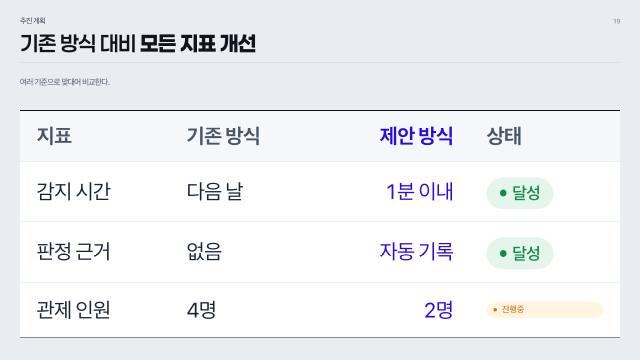
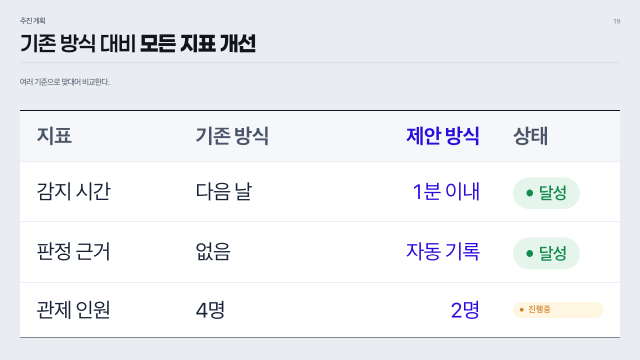
표 크기를 내용에 맞춤: 열 너비 자동, 표 글자 추가 축소, 넘치면 여러 장으로 나눔
- 열 너비: widths 없으면 칸 글자 양에 맞춰 나눔(HTML·PPTX 같은 값), 머리글 줄바꿈
- 세로: 본문 배율 최소로도 넘치면 표 글자만 0.75배(약 10pt)까지 더 줄임
- 그래도 안 들어가는 표는 행을 고르게 나눠 여러 장으로(머리글 반복, 제목 뒤 "(계속)")

diff --git a/docs/templates/deck.html b/docs/templates/deck.html
@@ -88,10 +88,10 @@ ul.rl.row li .v{display:inline;margin-left:.5em;}
 /* kv table (minimal): label column grey, values, bold last row; emphasize col tinted */
 /* 표 — SAFE AI 디자인 시스템 Data Table: 위·아래 2px 검정 선으로 시작·끝, 안쪽은 1px 연회색 선(세로선 없음).
    머리글(타이틀 영역)은 연회색 바탕·회색 글자. rowHeader 면 첫 열도 타이틀 영역(연회색 바탕·회색 글자 + 오른쪽 1px 선). 강조 열은 글자색만 포인트 컬러 */
-table.rt{width:100%;border-collapse:collapse;font-size:var(--fs-table);background:#fff;table-layout:fixed;text-align:left;border-top:2px solid var(--title);border-bottom:2px solid var(--title);}
-.rt thead th{background:var(--bg-soft);color:var(--text-mid);font-weight:700;text-align:left;padding:.55em .8em;border:0;border-bottom:1px solid var(--border);font-size:var(--fs-tableh);line-height:1.3;white-space:nowrap;vertical-align:middle;}
+table.rt{width:100%;border-collapse:collapse;font-size:calc(var(--fs-table) * var(--kt, 1));background:#fff;table-layout:fixed;text-align:left;border-top:2px solid var(--title);border-bottom:2px solid var(--title);}
+.rt thead th{background:var(--bg-soft);color:var(--text-mid);font-weight:700;text-align:left;padding:.55em .8em;border:0;border-bottom:1px solid var(--border);font-size:calc(var(--fs-tableh) * var(--kt, 1));line-height:1.3;word-break:keep-all;overflow-wrap:anywhere;vertical-align:middle;}   /* 머리글도 칸이 좁으면 줄바꿈 */
 .rt thead th.em{color:var(--primary);}
-.rt tbody td{padding:.6em .8em;border:0;border-bottom:1px solid var(--border);vertical-align:middle;color:var(--text);background:transparent;text-align:left;line-height:1.45;}
+.rt tbody td{padding:.6em .8em;border:0;word-break:keep-all;overflow-wrap:anywhere;border-bottom:1px solid var(--border);vertical-align:middle;color:var(--text);background:transparent;text-align:left;line-height:1.45;}
 .rt tbody td{font-weight:400;}   /* 본문 = regular·검정, 타이틀 영역 = bold·연회색 */
 .rt.rh thead th:first-child{border-right:1px solid var(--border);}
 .rt.rh tbody td:first-child{background:var(--bg-soft);color:var(--text-mid);font-weight:700;border-right:1px solid var(--border);}
@@ -341,7 +341,7 @@ table.rt{width:100%;border-collapse:collapse;font-size:var(--fs-table);backgroun
 <section class="slide" data-label="2-5 기술 난제와 **대응 방안**" id="s13" data-fit="1" style="--k: 1.0689453125;" style="--k:1.06">
     <div class="top"><div class="eyebrow"><span>해결 방안</span><span class="pgno">13</span></div><div class="stitle">기술 난제와 <b>대응&nbsp;방안</b></div><div class="rule"></div><div class="slead">난제와 해법을 맞대고 근거를 표로 받친다.</div></div>
     <div class="body" style="--body-top:220px;--safe-bottom:44px"><div class="blk" style="flex:1 1 0"><div class="inner"><div class="cmp"><div class="side from"><div class="cap">난제</div><div class="bd"><div class="sh">짧은 이상&nbsp;구간</div><div class="fill"><ul class="rl" style="--rl-gap: 0.40em;" data-gap-id="g16"><li>문 열림 1~2분</li><li>평균값에&nbsp;묻힘</li></ul></div></div></div><div class="arr">›</div><div class="side to"><div class="cap">해법</div><div class="bd"><div class="sh">구간 단위&nbsp;판정</div><div class="fill"><ul class="rl" style="--rl-gap: 0.40em;" data-gap-id="g17"><li>1분 단위 구간&nbsp;분리</li><li>구간별 누적&nbsp;점수</li></ul></div></div></div></div></div></div><div class="blk" style="flex:1 1 0"><div class="inner"><div class="tbl" style="flex:1;min-height:0;overflow:hidden"><table class="rt">
-      
+      <colgroup><col style="width:33.3%"><col style="width:33.3%"><col style="width:33.3%"></colgroup>
       <thead><tr><th class="">지표</th><th class="n">기존</th><th class="em n">제안</th></tr></thead>
       <tbody><tr><td class="">감지율</td><td class="n">62%</td><td class="em n">94%</td></tr><tr><td class="">오탐률</td><td class="n">18%</td><td class="em n">5%</td></tr></tbody>
     </table></div></div></div></div>
@@ -409,7 +409,7 @@ table.rt{width:100%;border-collapse:collapse;font-size:var(--fs-table);backgroun
 <section class="slide" data-label="3-2 기존 방식 대비 **모든 지표 개선**" id="s19" data-fit="1" style="--k: 1.7337890625;" style="--k:1.73">
     <div class="top"><div class="eyebrow"><span>추진 계획</span><span class="pgno">19</span></div><div class="stitle">기존 방식 대비 <b>모든 지표&nbsp;개선</b></div><div class="rule"></div><div class="slead">여러 기준으로 맞대어 비교한다.</div></div>
     <div class="body" style="--body-top:220px;--safe-bottom:44px"><div class="blk" style="flex:1 1 0"><div class="inner"><div class="tbl" style="flex:1;min-height:0;overflow:hidden"><table class="rt">
-      
+      <colgroup><col style="width:26.5%"><col style="width:26.5%"><col style="width:26.5%"><col style="width:20.6%"></colgroup>
       <thead><tr><th class="">지표</th><th class="">기존&nbsp;방식</th><th class="em n">제안&nbsp;방식</th><th class="">상태</th></tr></thead>
       <tbody><tr><td class="">감지&nbsp;시간</td><td class="">다음&nbsp;날</td><td class="em n">1분&nbsp;이내</td><td class=""><span class="badge ok">달성</span></td></tr><tr><td class="">판정&nbsp;근거</td><td class="">없음</td><td class="em n">자동&nbsp;기록</td><td class=""><span class="badge ok">달성</span></td></tr><tr><td class="">관제&nbsp;인원</td><td class="">4명</td><td class="em n">2명</td><td class=""><span class="badge prog">진행중</span></td></tr></tbody>
     </table></div></div></div></div>

diff --git a/skills/ppt-maker/references/design-system.md b/skills/ppt-maker/references/design-system.md
@@ -21,7 +21,7 @@
 - **지표 카드**: 왼쪽 2행 표(라벨 열 연회색, 마지막 행 굵게) + 오른쪽 연파랑 강조 박스(작은 라벨 + 큰 수치 "18% 증가"). **큰 수치(stat)**: 작은 지표명 → 큰 숫자(단위는 절반 크기) → 파란 보조 문장.
 - **그래프(chart)**(2026-09-30, [shadcn/ui Charts](https://ui.shadcn.com/charts) 를 따름): 회색 패널 없이 카드 위에 바로. 왼쪽 제목·오른쪽 "단위 : …". 가로 격자선만(연한 테두리색), 축선·눈금선 없음, X 라벨만. 막대는 위 모서리만 둥글게(한 시리즈 5px, 여러 시리즈 3px), 선은 부드러운 곡선 + 선 색으로 채운 점, 값 라벨은 위. 범례는 아래 가운데(작은 둥근 네모). 색은 브랜드 팔레트 순서(primary-2 → primary → teal → gold). PPTX 는 같은 규칙이되 막대 모서리 둥글리기만 없음. 같은 종류 그래프는 형식 통일.
 - **간트(gantt)**(2026-10-01): 왼쪽 항목 이름 열(24%, 중간 굵기), 위 기간 라벨(회색) + 밑줄, 칸마다 세로 격자선(연한 테두리색), 행마다 가로 막대(행 높이의 40%, 포인트 컬러, 모서리 3px). `second` 파랑·`accent` 청록·`muted` 회색. 가로 구분선·행 배경은 없음. 한 장에 행 3~8개, 칸 4~12개.
-- **표**(2026-10-04, Figma SAFE AI 디자인 시스템 Data Table 을 따름): 시작·끝은 **2px 검정 선**(`--title`), 안쪽 행 구분은 1px 연회색 선(`--border`), 세로선 없음. **타이틀 영역(머리글 행)** 은 연회색 바탕(`--bg-soft`)·**굵게(bold)·회색 글자(`--text-mid`)**. **본문 칸은 보통 굵기(regular)·검정(`--text`)**. **세로 타이틀이 있는 표(`rowHeader: true`)** 는 첫 열도 타이틀 영역 — 연회색 바탕·굵게·회색 글자, 오른쪽 1px 선. 첫 칸이 합계·총계·평균인 행만 연회색 바탕·굵게. 숫자 칸이 절반 넘는 열은 오른쪽 정렬(tabular-nums). 강조 열만 머리글 포인트 컬러 글자(밑줄은 다른 열과 같은 1px 선), 칸은 글자색만 포인트 컬러(바탕 칠하지 않음, 굵기 그대로). **카드 안 작은 표(라벨·값 두 칸, `rows`)** 는 표가 아니라 값 목록처럼: 위·아래 검정 선 없음, 라벨 회색(`--text-mid`), 값 오른쪽 정렬·굵게, 행 사이 1px 선.
+- **표**(2026-10-04, Figma SAFE AI 디자인 시스템 Data Table 을 따름): 시작·끝은 **2px 검정 선**(`--title`), 안쪽 행 구분은 1px 연회색 선(`--border`), 세로선 없음. **타이틀 영역(머리글 행)** 은 연회색 바탕(`--bg-soft`)·**굵게(bold)·회색 글자(`--text-mid`)**. **본문 칸은 보통 굵기(regular)·검정(`--text`)**. **세로 타이틀이 있는 표(`rowHeader: true`)** 는 첫 열도 타이틀 영역 — 연회색 바탕·굵게·회색 글자, 오른쪽 1px 선. 첫 칸이 합계·총계·평균인 행만 연회색 바탕·굵게. 숫자 칸이 절반 넘는 열은 오른쪽 정렬(tabular-nums). 강조 열만 머리글 포인트 컬러 글자(밑줄은 다른 열과 같은 1px 선), 칸은 글자색만 포인트 컬러(바탕 칠하지 않음, 굵기 그대로). **카드 안 작은 표(라벨·값 두 칸, `rows`)** 는 표가 아니라 값 목록처럼: 위·아래 검정 선 없음, 라벨 회색(`--text-mid`), 값 오른쪽 정렬·굵게, 행 사이 1px 선. **크기는 내용에 맞춘다**: `widths` 가 없으면 열 너비를 칸 글자 양에 맞춰 나누고(긴 글 열은 넓게, 숫자 열은 좁게, 열마다 최소 8%), 머리글도 칸이 좁으면 줄바꿈한다. 세로는 본문 배율(`--k`)을 0.75까지 줄이고, 그래도 넘치면 표 글자만 0.75배(`--kt`, 약 10pt)까지 더 줄인다. 그래도 한 장에 안 들어가는 표는 빌드할 때 행을 고르게 나눠 여러 장으로 편다(머리글 반복, 제목 뒤 "(계속)", 표 위 블록은 첫 장·아래 블록은 마지막 장).
 - **배너(callout)**: 네이비 톤 둥근 박스(`--banner`, 포인트 컬러를 #1E2850 쪽으로 82% 섞음 ≈ #202859). **라벨("특이사항"/"참고"/"핵심 요약")은 박스 안 왼쪽**에 연한 컬러(`--banner-label`) 15pt 굵게, 본문 불릿은 오른쪽에 한 단계 죽인 톤(`--banner-text`) 14pt. 밖으로 걸치는 흰 칩은 쓰지 않는다. 배너는 **낮게** 쓴다: 안쪽 여백 `.75em 1.6em`(small 기준), 라벨–본문 간격 1.6em, 줄 사이 ≤0.35em.
 - **비교(compare)**: 라벨 칩(AS-IS 회색 / TO-BE 네이비)이 달린 두 카드, 오른쪽 연파랑, 가운데 › 화살표. **로드맵**: 선 + 네이비 번호 원 + 흰 단계 카드(마지막 `darkLast` 반전). **이미지**: 흰 카드 안, 없는 이미지는 점선 자리표시자. **이미지 상자는 기본 16:9**(`ratio` 로 `4:3`·`1:1`·`9:16`·`3:4`·`original`). 칸의 너비·높이 중 작은 쪽에 맞춰 비율을 지키고 원본은 가장자리를 잘라 채운다(cover). `original` 만 원본 비율 그대로(contain).
 - **표지/마무리**: `meta.coverBg` 로 고른 배경 3종 중 하나(soft·grid·band). 표지는 설명줄 → 제목 → 왼쪽 아래 로고 → 오른쪽 아래 상자 네 덩어리만 쓴다. 자세한 좌표는 아래 '표지·목차 글자 규격'.

diff --git a/skills/ppt-maker/references/outline-schema.md b/skills/ppt-maker/references/outline-schema.md
@@ -67,7 +67,7 @@
 | `process` | `steps:[{title, desc?, items?, period?, highlight?, dark?}]`, `darkLast?` | 좌→우 절차·로드맵(선 + 번호 원 + 단계 카드). `period` 는 "1단계 · 2026 상" 같은 위 라벨 | 3~5 |
 | `timeline` | `phases:[{period, title, items?, desc?, highlight?}]`, `darkLast?` | process 와 같은 모양, 기간 중심 | 3~5 |
 | `gantt` | `cols:["1월",…], tasks:[{name, start, end, tone?:"primary"\|"second"\|"accent"\|"muted", label?}], heading?` | **여러 일이 겹치는 일정표.** 왼쪽 항목 이름, 위 기간 라벨, 세로 격자선, 가로 막대. `start`·`end` 는 1부터 세는 칸 번호(끝 포함, 2.5 처럼 반 칸 가능). 막대 색은 tone(기본 포인트 컬러, muted 회색). 겹치지 않는 단계 나열은 timeline | 행 3~8 · 칸 4~12 |
-| `table` | `headers, rows, emphasize?(열 index), leftAlign?([열 index]), widths?(["20%",…]), rowHeader?(true)` | 비교표, 평가지표 대응표, 예산. 강조 열은 글자색만 포인트 컬러(바탕·굵기는 그대로). 첫 열이 각 행의 항목 이름(세로 타이틀)이면 `rowHeader: true` → 첫 열도 머리글처럼 연회색 바탕·회색 글자. 셀에 `**굵게**` 가능. "달성/조기달성/진행중" 은 배지로 표시 | 행 3~7 |
+| `table` | `headers, rows, emphasize?(열 index), leftAlign?([열 index]), widths?(["20%",…]), rowHeader?(true)` | 비교표, 평가지표 대응표, 예산. 강조 열은 글자색만 포인트 컬러(바탕·굵기는 그대로). `widths` 를 안 주면 열 너비는 칸 글자 양에 맞춰 자동으로 나뉜다. 한 장에 다 안 들어가는 표는 빌드할 때 행을 고르게 나눠 여러 장으로 편다(머리글 반복, 제목 뒤 "(계속)"). 첫 열이 각 행의 항목 이름(세로 타이틀)이면 `rowHeader: true` → 첫 열도 머리글처럼 연회색 바탕·회색 글자. 셀에 `**굵게**` 가능. "달성/조기달성/진행중" 은 배지로 표시 | 행 3~7 |
 | `stats` | `stats:[{label, sub?, value, desc?}]` | 핵심 수치 카드(`label` = 라벨 칩, `sub` = 작은 지표명, `value` 큰 숫자+단위, `desc` 파란 보조 문장 "전월 31만 회 · 35% 성장") | 2~4 |
 | `chart` | `kind:"line"\|"bar", title, unit?, labels:[…], series:[{name, values:[…]}], heading?` | **월별 추이 등 수치는 표로 나열하지 말고 그래프로**. 시리즈 1~3개. 채널별 추이 그래프는 형식을 통일 | 1 |
 | `compare` | `left:{tag?, heading, items}, right:{tag?, heading, items}` | AS-IS→TO-BE, 난제→해법. `tag` 기본 AS-IS/TO-BE, 오른쪽이 연파랑 강조 | 항목 3~4 |
